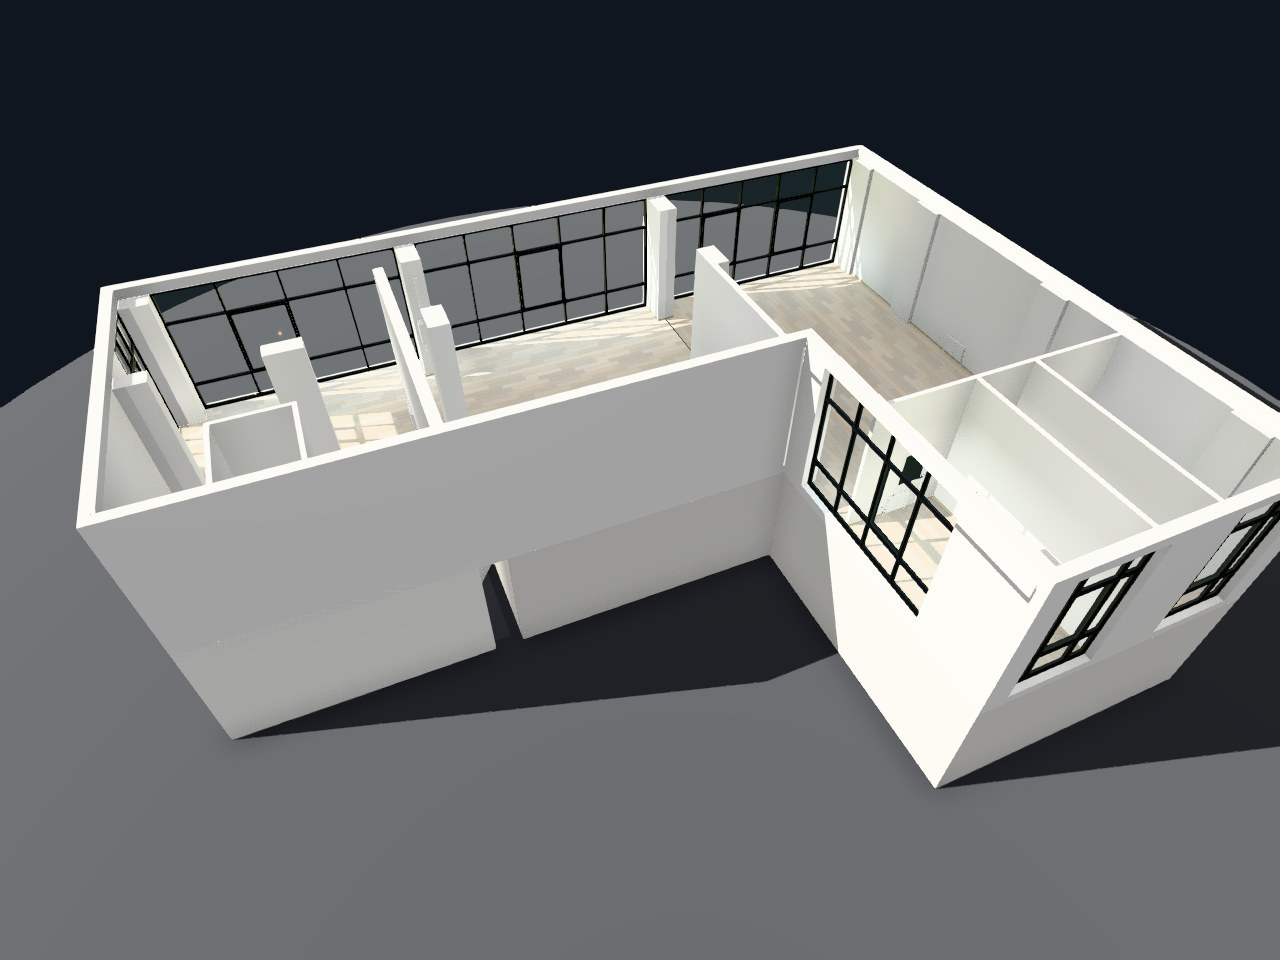
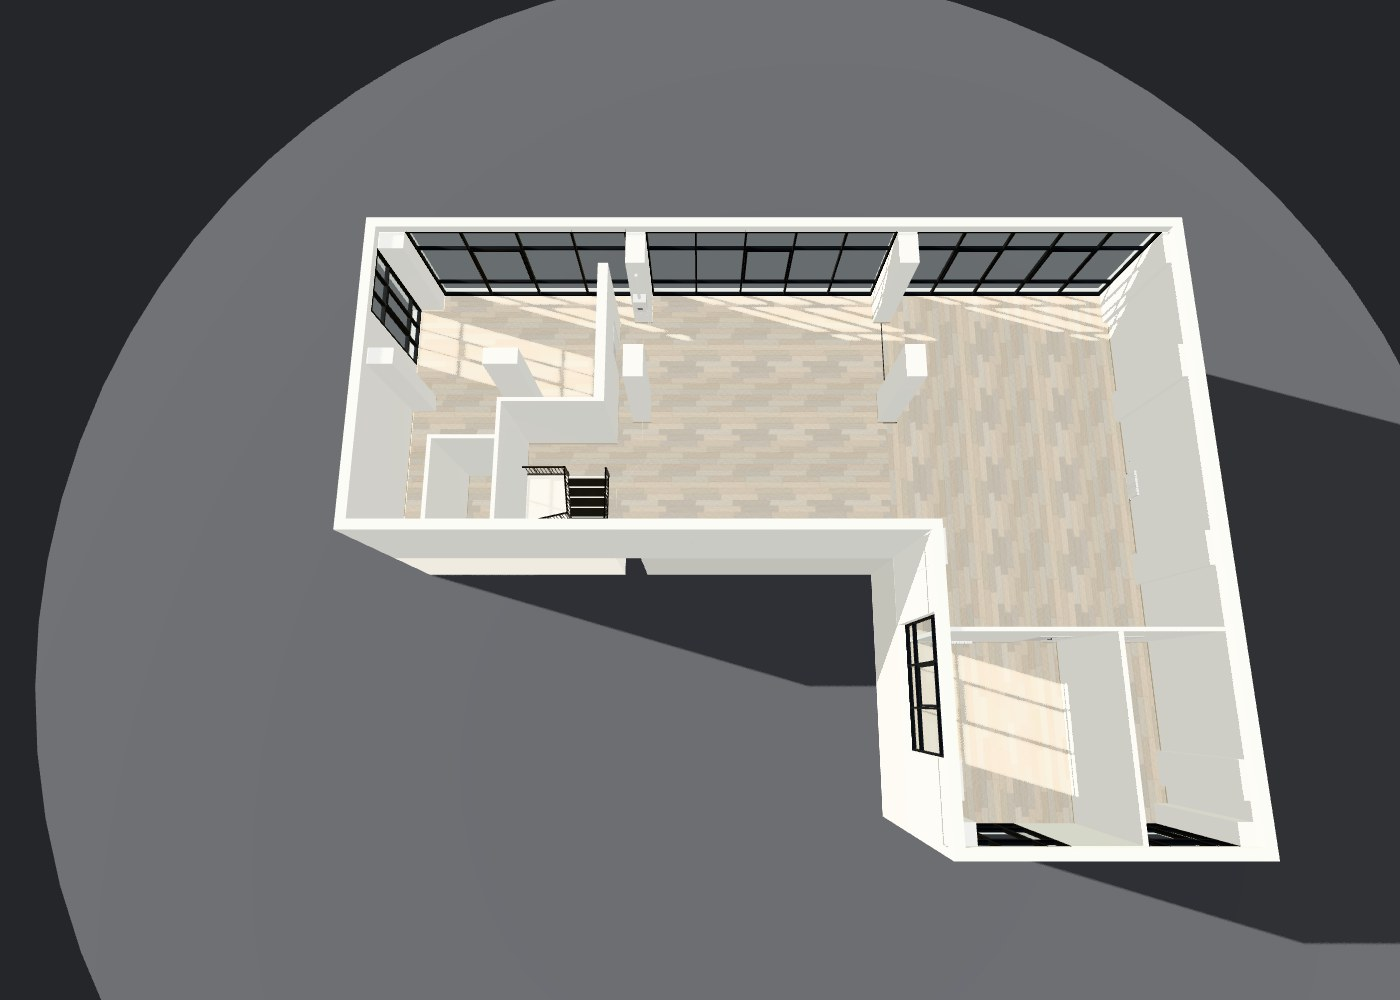
2-qavat: belgilangan reja bo'yicha devorlar va eshiklar
- O'rta devor, ofislar orasidagi devor, ofis eshigi va g'arbiy metall eshik olib tashlandi
- Zina atrofida chizilgan devor: uzun devor → shimol → g'arb; zina sharqdagi zalga ochiq
- 1-eshik uzun devorda, 2-eshik o'ng qanot burchagida

Claude-Session: https://claude.ai/code/session_01P9pQftsdzTnGheRvDppN9w

diff --git a/web/src/floor2.js b/web/src/floor2.js
@@ -54,7 +54,7 @@ export function buildFloor2( mats, m2 ) {
 	const yb = Y2 - 0.3, yt = TOP + ROOF_T;
 	w.add( W, box( 23.35, 23.65, yb, yt, - 0.3, 17.31 ) ); // sharqiy devor
 	w.add( W, box( - 0.3, 15.7, yb, yt, 8.75, 9.05 ) ); // chap blok janubiy devori
-	w.add( W, box( 15.7, 16.0, yb, yt, 8.75, 9.93 ) );
+	w.add( W, box( 15.7, 16.0, yb, yt, 8.75, 11.2 ) ); // 2-eshik shu devorda
 	w.add( W, box( 15.7, 16.0, yb, yt, 14.95, 17.31 ) );
 	for ( const [ x0, x1 ] of [ [ 15.7, 16.4 ], [ 18.75, 20.65 ], [ 22.95, 23.65 ] ] ) w.add( W, box( x0, x1, yb, yt, 17.01, 17.31 ) );
 	// oyna ustidagi va ostidagi fasad lentalari
@@ -70,7 +70,7 @@ export function buildFloor2( mats, m2 ) {
 	w.add( W, box( - 0.3, 0, yb, yt, 2.55, 8.75 ) ); // g'arbiy devor (oynasiz qism, eshik shu yerda)
 
 
-	band( 15.7, 16.0, 9.93, 14.95 );
+	band( 15.7, 16.0, 11.2, 14.95 );
 	band( 16.4, 18.75, 17.01, 17.31 );
 	band( 20.65, 22.95, 17.01, 17.31 );
 
@@ -79,6 +79,14 @@ export function buildFloor2( mats, m2 ) {
 	// Ichki devorlar va eshik o'rinlari
 	const doors = [];
 	for ( const p of PARTITIONS2 ) {
+
+		if ( p.doorZ ) {
+
+			w.add( W, box( p.x0, p.x1, Y2 + DOOR_H, TOP, p.z0, p.z1 ) );
+			addDoorZ( w, m2, p );
+			continue;
+
+		}
 
 		if ( ! p.doors ) {
 
@@ -107,11 +115,11 @@ export function buildFloor2( mats, m2 ) {
 	const skz = ( z, x0, x1, side ) => w.add( S, box( x0, x1, Y2, Y2 + SK_H, z, z + side * SK_T ) );
 	skx( 23.35, 1.0, 3.57, - 1 ); skx( 23.35, 4.56, 9.0, - 1 ); skx( 23.35, 9.95, 11.6, - 1 );
 	skx( 23.35, 11.72, 14.95, - 1 ); skx( 23.35, 15.94, 16.45, - 1 );
-	skz( 8.75, 0, 1.9, - 1 ); skz( 8.75, 6.8, 15.375, - 1 ); skx( 6.8, 6.4, 8.75, 1 ); skz( 6.28, 1.9, 3.9, - 1 ); skx( 6.5, 1.0, 6.4, - 1 ); skz( 1.0, 6.5, 6.8, - 1 );
+	skz( 8.75, 0, 1.9, - 1 ); skz( 8.75, 6.5, 16.0, - 1 ); skz( 6.28, 1.9, 3.78, - 1 ); skx( 6.5, 1.0, 1.93, - 1 ); skx( 6.5, 2.97, 5.18, - 1 ); skx( 6.8, 1.0, 1.93, 1 ); skx( 6.8, 2.97, 5.18, 1 ); skz( 1.0, 6.5, 6.8, - 1 );
+	skz( 5.18, 3.78, 6.5, - 1 ); skz( 5.3, 3.9, 6.8, 1 ); skx( 3.78, 5.18, 6.28, - 1 ); skx( 3.9, 5.3, 6.4, 1 ); skx( 16.0, 8.75, 10.0, 1 ); skx( 16.0, 10.95, 11.2, 1 );
 	skz( 8.75, 2.02, 3.78, - 1 ); skx( 2.02, 6.4, 8.75, 1 ); skx( 3.78, 6.4, 8.75, - 1 );
 	skx( 0, 4.18, 5.6, 1 ); skx( 0.75, 3.8, 3.68, 1 );
 	skx( 0, 4.18, 8.75, 1 ); skx( 0, 2.55, 2.62, 1 ); skx( 0, 3.63, 3.68, 1 ); 
-	skx( 15.375, 4.56, 8.75, - 1 ); skx( 15.55, 4.56, 8.75, 1 );
 	skx( 16.0, 8.75, 8.94, 1 );
 	let sx = 16.0;
 	for ( const d of doors.filter( ( q ) => q.x0 > 15 ) ) {
@@ -121,7 +129,6 @@ export function buildFloor2( mats, m2 ) {
 	}
 
 	skz( 11.6, sx, 23.35, - 1 ); skz( 11.72, sx, 23.35, 1 );
-	skx( 18.75, 11.72, 17.01, - 1 ); skx( 18.87, 11.72, 17.01, 1 );
 	skx( 20.53, 11.72, 17.01, - 1 ); skx( 20.65, 11.72, 17.01, 1 );
 	for ( const c of COLS2.slice( 2, 7 ) ) {
 
@@ -140,8 +147,8 @@ export function buildFloor2( mats, m2 ) {
 
 	// ---------- Eshiklar ----------
 	for ( const d of doors ) addDoor( w, m2, d );
-	// To'q rangli metall eshik — g'arbiy devorning o'zida, ustun burchagi yonida (rasm 15)
-	addSurfaceDoorX( w, m2, 2.7, 3.55, 0 );
+	// 2-eshik: to'q rangli metall eshik — o'ng qanot g'arbiy devorida, burchak yonida (belgilangan reja)
+	addSurfaceDoorX( w, m2, 10.05, 10.9, 16.0 );
 
 	// Zina teshigi atrofidagi pol qirrasi va ostona chiziqlari
 	w.add( m2.threshold, box( XJ - 0.015, XJ + 0.015, Y2, Y2 + 0.004, 1.0, 3.57 ) );
@@ -276,6 +283,29 @@ function addDoor( b, m2, d ) {
 
 	b.add( m2.pvc, box( d.x0, d.x0 + 0.01, Y2, Y2 + DOOR_H, d.z0, d.z1 ) );
 	b.add( m2.pvc, box( d.x1 - 0.01, d.x1, Y2, Y2 + DOOR_H, d.z0, d.z1 ) );
+
+}
+
+// z bo'ylab ketgan devordagi eshik (tavaqa x o'qiga perpendikulyar)
+function addDoorZ( b, m2, p ) {
+
+	const xc = ( p.x0 + p.x1 ) / 2;
+	const z0 = p.z0, z1 = p.z1;
+	const lz0 = z0 + 0.005, lz1 = z1 - 0.005;
+	b.add( m2.pvc, box( xc - 0.025, xc + 0.025, Y2 + 0.01, Y2 + DOOR_H - 0.005, lz0, lz1 ) );
+	b.add( m2.darkGlass, box( xc - 0.027, xc + 0.027, Y2 + 0.95, Y2 + 1.95, lz0 + 0.11, lz1 - 0.11 ) );
+	for ( const side of [ - 1, 1 ] ) {
+
+		const xf = side < 0 ? p.x0 : p.x1, t = side * 0.012;
+		b.add( m2.pvc, box( xf, xf + t, Y2, Y2 + DOOR_H + 0.06, z0 - 0.06, z0 ) );
+		b.add( m2.pvc, box( xf, xf + t, Y2, Y2 + DOOR_H + 0.06, z1, z1 + 0.06 ) );
+		b.add( m2.pvc, box( xf, xf + t, Y2 + DOOR_H, Y2 + DOOR_H + 0.06, z0 - 0.06, z1 + 0.06 ) );
+		b.add( m2.chrome, box( xc + side * 0.06, xc + side * 0.075, Y2 + 1.0, Y2 + 1.02, lz1 - 0.19, lz1 - 0.06 ) );
+
+	}
+
+	b.add( m2.pvc, box( p.x0, p.x1, Y2, Y2 + DOOR_H, z0, z0 + 0.01 ) );
+	b.add( m2.pvc, box( p.x0, p.x1, Y2, Y2 + DOOR_H, z1 - 0.01, z1 ) );
 
 }
 

diff --git a/web/src/plan2.js b/web/src/plan2.js
@@ -44,7 +44,7 @@ export const GLAZING2 = [
 	{ id: 'n3', a: [ 15.95, G ], b: [ 23.2, G ], mullions: [ 1.45, 2.9, 4.35, 5.8 ], sash: [ 1, 3 ] },
 	// G'arbiy fasad: faqat shimoliy burchakdagi tor oyna (rasm 12): qolgani devor, kichik xona va eshik o'rni
 	{ id: 'w1', a: [ G, 2.55 ], b: [ G, 0.53 ], mullions: [ 0.67, 1.34 ], sash: [ 1 ] },
-	{ id: 'e-w', a: [ 16.0 + G, 14.95 ], b: [ 16.0 + G, 9.93 ], mullions: [ 1.25, 2.5, 3.75 ], sash: [ 1 ] },
+	{ id: 'e-w', a: [ 16.0 + G, 14.95 ], b: [ 16.0 + G, 11.2 ], mullions: [ 1.25, 2.5 ], sash: [ 1 ] },
 	{ id: 's-a', a: [ 18.75, 17.01 - G ], b: [ 16.4, 17.01 - G ], mullions: [ 0.6, 1.75 ], sash: [ 1 ] },
 	{ id: 's-b', a: [ 22.95, 17.01 - G ], b: [ 20.65, 17.01 - G ], mullions: [ 0.55, 1.75 ], sash: [ 1 ] },
 ];
@@ -58,15 +58,18 @@ export const NOOK2 = null; // tambur olib tashlandi — eshik to'g'ridan-to'g'ri
 
 // Ichki devorlar: [x0, x1, z0, z1] (balandligi to'liq)
 export const PARTITIONS2 = [
-	// Zina yonidagi kichik xona (eshiksiz, ochiq o'tish joyi) — rasm 14
-	{ x0: 1.9, x1: 3.9, z0: 6.28, z1: 6.4 }, // kichik xona — eshiksiz (rasm 15)
+	// Zina yonidagi kichik xona (eshiksiz) — rasm 15
+	{ x0: 1.9, x1: 3.9, z0: 6.28, z1: 6.4 },
 	{ x0: 1.9, x1: 2.02, z0: 6.4, z1: 8.75 },
-	{ x0: 3.78, x1: 3.9, z0: 6.4, z1: 8.75 }, // = zina teshigining g'arbiy devori (narigi tomoni — devor)
-	// Zina shaxtasining sharqiy devori — zal bo'ylab uzun devor (rasm 14, 15: chapdagi uzun devor, radiator bilan)
-	{ x0: 6.5, x1: 6.8, z0: 1.0, z1: 8.75 },
-	{ x0: 15.375, x1: 15.55, z0: 4.56, z1: 8.75 }, // chap blok va o'ng qanot orasidagi devor
-	{ x0: 16.0, x1: 23.35, z0: 11.6, z1: 11.72, doors: [ [ 17.25, 18.15, 'pvc' ], [ 19.25, 20.05, 'white' ], [ 21.2, 22.1, 'pvc' ] ] },
-	{ x0: 18.75, x1: 18.87, z0: 11.72, z1: 17.01 },
+	// Zina atrofidagi devor (belgilangan reja, rasm 16): uzun devor → zina shimolidan g'arbga → janubga.
+	// Zina sharq tomondagi zalga ochiq.
+	{ x0: 6.5, x1: 6.8, z0: 1.0, z1: 2.0 },
+	{ x0: 6.5, x1: 6.8, z0: 2.0, z1: 2.9, doorZ: 'pvc' }, // 1-eshik (uzun devorda)
+	{ x0: 6.5, x1: 6.8, z0: 2.9, z1: 5.3 },
+	{ x0: 3.78, x1: 6.8, z0: 5.18, z1: 5.3 }, // zina maydonchasining shimoliy devori
+	{ x0: 3.78, x1: 3.9, z0: 5.3, z1: 8.75 }, // zina g'arbidagi devor (= kichik xona sharqiy devori)
+	// O'ng qanot: ko'ndalang devor — 2 ta eshik (o'ng ofis va o'rtadagi xona); ofislar orasidagi devor olib tashlandi
+	{ x0: 16.0, x1: 23.35, z0: 11.6, z1: 11.72, doors: [ [ 19.25, 20.05, 'white' ], [ 21.2, 22.1, 'pvc' ] ] },
 	{ x0: 20.53, x1: 20.65, z0: 11.72, z1: 17.01 },
 ];
 
@@ -134,8 +137,7 @@ export const SPOTS2 = ( () => {
 export const RADIATORS2 = [
 	{ x: 9.6, z: 8.75, nx: 0, nz: - 1, n: 10 },
 	{ x: 12.8, z: 8.75, nx: 0, nz: - 1, n: 10 },
-	{ x: 15.375, z: 6.6, nx: - 1, nz: 0, n: 10 },
-	{ x: 6.5, z: 3.2, nx: - 1, nz: 0, n: 10 },
+	{ x: 6.5, z: 4.1, nx: - 1, nz: 0, n: 10 },
 	{ x: 23.35, z: 6.8, nx: - 1, nz: 0, n: 10 },
 	{ x: 17.4, z: 11.72, nx: 0, nz: 1, n: 8 },
 	{ x: 21.9, z: 11.72, nx: 0, nz: 1, n: 8 },

diff --git a/web/src/main.js b/web/src/main.js
@@ -53,7 +53,7 @@ const VIEWS = [
 	{ floor: 2, id: 'qanot', name: 'Qanot', pos: [ 19.6, 3.9 + 1.6, 11.1 ], target: [ 19.4, 3.9 + 1.45, 0.5 ] },
 	{ floor: 2, id: 'ustunlar', name: 'Ustunlar', pos: [ 22.4, 3.9 + 1.65, 1.3 ], target: [ 12.0, 3.9 + 1.0, 7.5 ] },
 	{ floor: 2, id: 'ofis', name: 'Ofis xona', pos: [ 17.4, 3.9 + 1.55, 12.1 ], target: [ 17.4, 3.9 + 1.4, 17.0 ] },
-	{ floor: 2, id: 'zina2', name: 'Zina', pos: [ 6.1, 3.9 + 1.5, 0.8 ], target: [ 0.6, 3.9 + 1.15, 6.6 ] },
+	{ floor: 2, id: 'zina2', name: 'Zina', pos: [ 11.0, 3.9 + 1.6, 4.0 ], target: [ 4.8, 3.9 + 0.6, 7.6 ] },
 	{ floor: 2, id: 'tepadan2', name: 'Tepadan', pos: [ 5.5, 3.9 + 15.5, 22.5 ], target: [ 11.7, 3.9, 8.0 ] },
 ];
 
@@ -352,11 +352,11 @@ async function main() {
 			poly: OUTLINE2, eye: Y2 + 1.62, start: [ 12, 5.5 ],
 			blockers: [
 				...COLS2.map( ( c ) => [ c.x0, c.x1, c.z0, c.z1 ] ),
-				...PARTITIONS2.slice( 0, 1 ).map( ( c ) => [ c.x0, c.x1, c.z0, c.z1 ] ),
 				[ 16.0, 23.35, 11.6, 17.01 ],
-				[ 3.8, 6.8, 6.3, 8.75 ],
+				[ 3.8, 6.6, 6.3, 8.75 ],
 				[ 1.9, 3.9, 6.28, 8.75 ],
-				[ 6.5, 6.8, 1.0, 8.75 ],
+				[ 6.5, 6.8, 1.0, 2.0 ], [ 6.5, 6.8, 2.9, 5.3 ],
+				[ 3.78, 6.8, 5.18, 5.3 ], [ 3.78, 3.9, 5.3, 8.75 ],
 				[ 0, 1.4, 1.78, 3.8 ],
 			],
 		},

diff --git a/web/src/stair.js b/web/src/stair.js
@@ -97,6 +97,13 @@ function buildRailings( mats ) {
 	b.add( M, box( xr - 0.03, xr + 0.03, y0, y0 + HR + 0.03, zn - 0.03, zn + 0.03 ) );
 	for ( let x = xw + 0.6; x < xr; x += 0.6 ) b.add( M, box( x - 0.01, x + 0.01, y0, y0 + BR, zn - 0.01, zn + 0.01 ) );
 	panelPattern( b, M, xw + 0.06, xr - 0.06, () => y0 + BR, () => y0 + HR, ( x, a, c ) => [ V( x, a, zn ), V( x, c, zn ) ] );
+	// sharqiy qirra (x 6.5): zina shu tomondagi zalga ochiq — teshik bo'ylab panjara
+	const xe = OPENING.x1 + 0.04;
+	b.add( M, box( xe - 0.0225, xe + 0.0225, y0 + HR - 0.0225, y0 + HR + 0.0225, zTop - 0.0225, z1 ) );
+	b.add( M, box( xe - 0.02, xe + 0.02, y0 + BR - 0.006, y0 + BR + 0.006, zTop, z1 ) );
+	b.add( M, box( xe - 0.03, xe + 0.03, y0, y0 + HR + 0.03, zTop - 0.03, zTop + 0.03 ) );
+	for ( let z = zTop + 0.6; z < z1; z += 0.6 ) b.add( M, box( xe - 0.01, xe + 0.01, y0, y0 + BR, z - 0.01, z + 0.01 ) );
+	panelPattern( b, M, zTop + 0.06, z1 - 0.04, () => y0 + BR, () => y0 + HR, ( z, a, c ) => [ V( xe, a, z ), V( xe, c, z ) ] );
 
 	return b.build( { name: 'railing' } );
 

diff --git a/docs/TZ-2-qavat.md b/docs/TZ-2-qavat.md
@@ -95,3 +95,9 @@
 - Kichik xona (x 1.9…3.9, z 6.28…8.75) — eshiksiz blok.
 - To'q rangli metall eshik g'arbiy devorning o'zida, ustun burchagi yonida (z 2.70…3.55); tambur olib tashlandi.
 - G'arbiy fasad: shimoliy burchakda oyna (z 0.53…2.55, 3 tavaqa), qolgani devor.
+
+## 10. Belgilangan reja bo'yicha (v5, rasm 16)
+- Olib tashlandi: chap blok va o'ng qanot orasidagi o'rta devor; ofis A va WC orasidagi devor; ofis A eshigi; g'arbiy devordagi metall eshik.
+- Yangi devor: uzun devor (x 6.5…6.8, z 1.0…5.3) → zina maydonchasi shimolida g'arbga (z 5.18…5.3, x 3.78…6.8) → zina g'arbida janubga (x 3.78…3.9, z 5.3…8.75). Zina sharqdagi zalga ochiq, teshik sharq qirrasida panjara.
+- 1-eshik: uzun devorda (z 2.0…2.9), PVC, to'q oynali.
+- 2-eshik: o'ng qanot g'arbiy devorida, burchak yonida (x 16.0, z 10.05…10.9), to'q metall.
